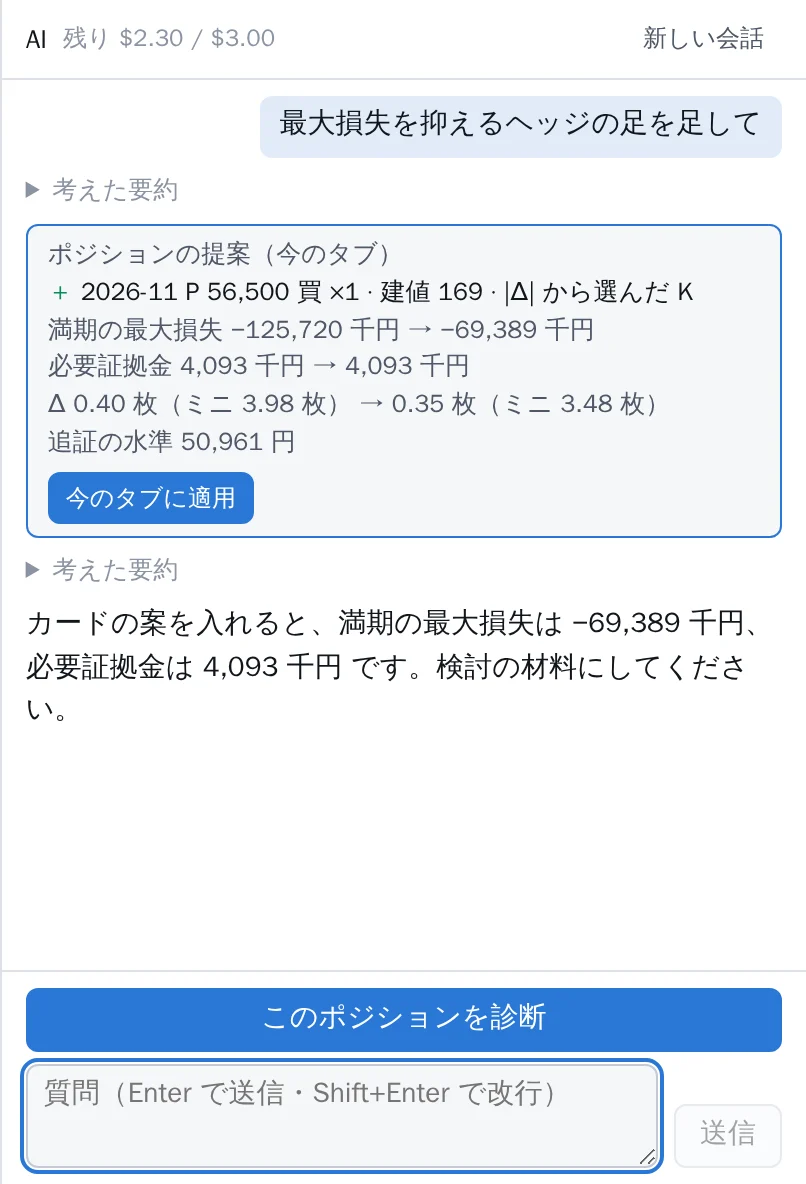
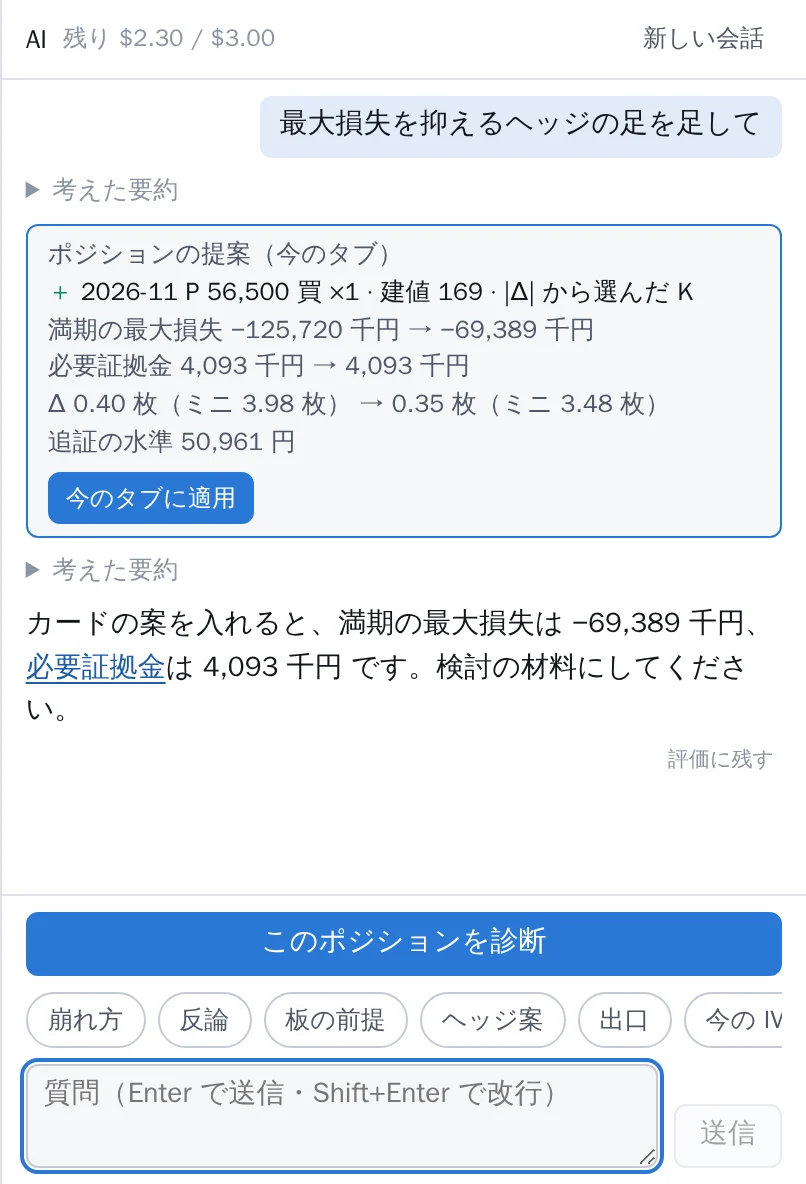
docs: 利用者向けの文書と AI の画像を今の実装に合わせる（文書の点検 2026-10-22）
- README: AI の箇条とツアーに自分の前提・マニュアルを根拠に答える・表と用語のリンク・[評価に残す]、送り口は資格情報によらず Agent SDK とスキル・read_doc、/api/ai/status
- README の画像: ai・ai-propose・ai-tech を撮り直し（定型のチップ・[評価に残す]・用語のリンク）、表と用語のリンクの ai-table を足した
- マニュアル: 画面の構成（タイル 8 枚・AI の行・PC の市場の列）、通信の範囲、HV・統計は AI で返すこと、パレットの AI の行、操作一覧の対象と「消す」、目次の 20 章
- 用語集の HV: 画面には出ないが AI が計算して返す
- api/README のスキル（presets）とツール 11 本、infra/README の AI_CREDENTIAL の wif と SDK の記述、ui-redesign §4.8 の下限 56px / 24px

Changed region(s): [[0.031, 0.75, 0.9926, 0.9062], [0.031, 0.5312, 0.2171, 0.5938], [0.8375, 0.625, 0.9615, 0.6562]]

diff --git a/ui/view/glossary.ts b/ui/view/glossary.ts
@@ -181,11 +181,11 @@ export const GLOSSARY: readonly GlossaryTerm[] = [
     body: [
       'HV は原資産の実際の値動きから計算した変動率で、日々の騰落率の標準偏差を年率にしたもの。過去に実際にどれだけ動いたかを表す。',
       'IV（オプションの価格から逆算した、市場が織り込む変動率）と対になる。IV − HV はボラティリティ・プレミアムと呼ばれ、IV が HV より高いほど、オプションは実際の値動きに比べて高く値付けされている。',
-      'simulator は HV を計算・表示しない。IV の水準は IV 推移（iv30）で見る。',
+      'simulator の画面には HV を出さない。IV の水準は IV 推移（iv30）で見る。AI に「IV は HV に比べて高い？」のように聞くと、IV の過去の統計として HV（5・20・60 取引日）と IV − HV を計算して返す。',
     ],
     formula: 'HV ≒ 日々の騰落率の標準偏差 × √（1 年の営業日の数）',
     example: '例（架空の値）: 日々の騰落率の標準偏差が 1.2% なら HV ≒ 1.2% × √245 ≒ 18.8%',
-    where: ['simulator には出ない（IV と比べるための用語）'],
+    where: ['画面には出ない（AI に聞くと IV の過去の統計として返す）'],
     guide: G_IV_HISTORY,
     related: ['iv', 'iv30'],
   },

diff --git a/README.md b/README.md
@@ -33,7 +33,7 @@
 - **証拠金の概算** — 必要証拠金・余力、損益グラフに **追証の線**、過去の 2 営業日の動きと重ねる **追証マップ**
 - **板とスマイル** — 板の bid で売り・ask で買いの足が入る。スマイル（bid / ask / mid の IV と補間・外挿）の点からも
 - **IV 推移と先物推移** — ATM IV と日経225 先物のローソク足（1 分〜日足）。先物には EMA の 3 本と RSI・MACD・ストキャスティクスの段
-- **AI に相談** — [このポジションを診断]、**定型の質問**（崩れ方・反論・板の前提・ヘッジ案・出口・今の IV は売り時？）、続けての質問、画面の数字からの **[AI に聞く]**、ヘッジや組み方の **提案のカード**、先物の **テクニカルの読み**、**IV の過去の統計**（分位・スパイクの戻り方・β の実測・HV）。数字はこのシミュレーター自身の計算から取る
+- **AI に相談** — [このポジションを診断]、**定型の質問**（崩れ方・反論・板の前提・ヘッジ案・出口・今の IV は売り時？）、続けての質問、画面の数字からの **[AI に聞く]**、ヘッジや組み方の **提案のカード**、先物の **テクニカルの読み**、**IV の過去の統計**（分位・スパイクの戻り方・β の実測・HV）、使い方・計算の前提の質問にはマニュアルの節を示して答える。返答の比較は表で、用語は説明カードへのリンクに。設定に **自分の前提**（資金・許容損失・好む形など）を書くと毎回渡る。数字はこのシミュレーター自身の計算から取る
 - **コマンドパレット・用語集・設定** — `Ctrl + K` で何でも、`?` で用語の説明カード。テクニカル指標の期間と線の太さも設定で
 - **計算はすべてブラウザ** — サーバーは板などの JSON を返すのと、AI への中継だけ
 
@@ -122,7 +122,7 @@ IV 推移は ATM IV（30 日固定）、先物推移は日経225 先物（ラー
 
 [このポジションを診断] で、今のポジションの弱点（どこで損が膨らむか・何に弱いか）を AI（Anthropic の Claude）が数字つきで説明します。数字はこのシミュレーターの計算（指標・テール表・証拠金・シナリオの評価と同じ計算）から取り、AI には計算させません。続けて「−6% で 3 日後、IV +5pt なら？」のように質問もできます。指標のタイル・読み取り・テール表・IV 推移の **[AI に聞く]** を押すと、その値が何を表すか・なぜこの値か・今のポジションにとってどうかを、マニュアルの該当の節を示して答えます。
 
-<p align="center"><img src="docs/images/ai.webp" alt="ダーク。PC の右の列に AI のパネル。診断の返答（弱点 3 つと確かめるとよいこと）、続けた質問へのシナリオの評価のカードと [シナリオに適用]" width="100%"></p>
+<p align="center"><img src="docs/images/ai.webp" alt="ダーク。PC の右の列に AI のパネル。診断の返答（弱点 3 つと確かめるとよいこと。用語に下線のリンク、末尾に [評価に残す]）、続けた質問へのシナリオの評価のカードと [シナリオに適用]、下に [このポジションを診断] と定型の質問のチップ" width="100%"></p>
 
 <table>
   <tr>
@@ -135,12 +135,22 @@ IV 推移は ATM IV（30 日固定）、先物推移は日経225 先物（ラー
   </tr>
 </table>
 
+<table>
+  <tr>
+    <td width="50%"><img src="docs/images/ai-table.webp" alt="ライト。AI の返答の表 2 つ（足ごとの建値、下げの幅ごとの損益）。文の中の IV・Δσ・β・必要証拠金・追証の線に下線のリンク、照合できない数字に点線"></td>
+    <td width="50%"><b>表と用語のリンク</b> — AI が表で書いた比較は表で出る（列が多ければ表の中だけを横に動かす）。返答の中の用語（IV・Δσ・β・追証の線 など）は押すと用語の説明カードが開く。計算の値と照合できない数字には点線</td>
+  </tr>
+</table>
+
 <p align="center"><sub>AI の返答の画像は、手元の開発サーバーの架空の応答で撮った例です（実際の AI は呼んでいません。数字は合成の板からの計算の値）。</sub></p>
 
 - **開き方** — スマホ・タブレットはドックの [AI]、PC はトップバーの [AI] かキー `6`（右の列のポジション・指標と入れ替わる）。コマンドパレットの「AI に相談」「このポジションを診断」からも
 - **定型の質問** — [このポジションを診断] の下のチップ（[崩れ方]・[反論]・[板の前提]・[ヘッジ案]・[出口]・[今の IV は売り時？]）で、決まった質問を 1 押しで送る。[今の IV は売り時？] は材料を並べるだけで、売り時かどうかは言わない
 - **IV の過去の統計** — 「今の IV は過去のどの辺？」「跳ねた後どれくらいで萎んだ？」「下げ 2 日で IV はどれだけ跳ねた？」「β の実測は？」「IV は実際の値動き（HV）に比べて高い？」のように聞くと、IV 推移と同じ IV の日々の終値と先物相当の値からシミュレーターが計算した分位・スパイクの戻り方・値動きの大きさ別の IV の変化・β の実測・HV を、件数つきの材料として返す（予想ではない）
+- **使い方と計算の前提** — 「追証マップの点は何？」「β と Δσ はどう効くの？」のように聞くと、マニュアルと設計書の該当する節を読んで、節を示して答える（書かれていないことは「書かれていない」と答える）
+- **自分の前提** — 設定の「AI に渡す自分の前提」（1,000 字まで）に資金の規模・許せる損失・好む形・避ける形などを書くと、毎回の質問に一緒に渡り、答えの方針に使われる（計算には使わない。この端末にだけ保存）
 - **数字の照合** — 返答の中の数字が計算の値と照合できないときは点線の下線が付く（その数字は計算の値ではない）
+- **[評価に残す]** — 返答の末尾のボタンで、その返答までの会話をファイルにダウンロードできる（サーバーには送らない）。AI の設定を変えたときに同じ条件で解かせ直す材料にする（開発者向け。`api/README.md` の「AI の評価」）
 - **[シナリオに適用]** — AI が計算させたシナリオ（日数・ΔX・IV・スキュー）はカードで見せ、1 タップでシナリオに入る。トーストの [元に戻す] で戻せる
 - **1 日の上限** — 見出しに今日の残り（例 `残り $2.40 / $3.00`）。使い切ると翌日まで送れない
 - **会話は残さない** — このタブの間だけ（再読み込みでは残り、タブを閉じると消える）。保存一覧・URL・書き出しには入らない
@@ -174,7 +184,7 @@ IV 推移は ATM IV（30 日固定）、先物推移は日経225 先物（ラー
         │  読むだけ（書き込まない）
         ▼
 api/（Python 3.13・Flask）  /api/chain・/api/calendar・/api/atm_iv・/api/atm_daily・/api/future_bars
-        │  JSON              /api/ai/messages（SSE）──中継──▶ Anthropic Claude（AI を有効にしたときだけ）
+        │  JSON              /api/ai/status・/api/ai/messages（SSE）──中継──▶ Anthropic Claude（AI を有効にしたときだけ）
         ▼
 ブラウザ（TypeScript + Preact）  model/ の純関数で Black-76・IV・F・スマイル・満期損益・シナリオ・グリーク・証拠金
                                  AI が求めた計算（シナリオの評価・テール表など）もここで
@@ -185,7 +195,7 @@ api/（Python 3.13・Flask）  /api/chain・/api/calendar・/api/atm_iv・/api/a
 - **データ元**: 毎分取り込んだ板を蓄積した BigQuery の最新スナップショット（形と契約は [`docs/design.md`](docs/design.md) 4.1・7 章）、または JSON ファイル（`DATA_SOURCE=file`・画面のファイル選択）。手元では合成の板（`fixtures/synthetic/`）だけで GCP なしに動きます
 - **ほかの供給元**: 自分で契約した API から書き出した気配の一覧を読む口（`DATA_SOURCE=quotes`）。形・足し方・候補の比較は [`docs/data-sources.md`](docs/data-sources.md)
 - **汎用の作り**: 誰でも clone して自分の環境（自分の GCP プロジェクト・自分の板の BigQuery）で使える作りです。プロジェクト ID・URL・アカウントなどの個人の値はコードに書かず、変数で受け取ります（[`CLAUDE.md`](CLAUDE.md) の「リポジトリに置くもの / 置かないもの」）
-- **AI の中継**: ブラウザの会話を `api/` の `/api/ai/messages`（SSE）が許可リストで検査して Claude へ渡します。AI が求めた計算（シナリオの評価など）はブラウザで行い、中継は計算しません。1 日の費用の上限は Firestore で数えます（API キー・WIF のとき）。資格情報は `AI_CREDENTIAL` で 1 つ選びます（Claude のサブスクリプションの OAuth トークンか API キー（どちらも Secret Manager に入れる）、または Anthropic の WIF（鍵なし））。OAuth トークンのときは、中継が Claude Agent SDK（Claude Code の CLI を中で動かす）を通して送り、費用は数えません。未設定なら AI は無効で、ほかの機能はそのまま使えます。
+- **AI の中継**: ブラウザの会話を `api/` の `/api/ai/messages`（SSE）が許可リストで検査して Claude へ渡します。AI が求めた計算（シナリオの評価など）はブラウザで行い、中継は計算しません。1 日の費用の上限は Firestore で数えます（API キー・WIF のとき）。資格情報は `AI_CREDENTIAL` で 1 つ選びます（Claude のサブスクリプションの OAuth トークンか API キー（どちらも Secret Manager に入れる）、または Anthropic の WIF（鍵なし））。どの資格情報でも、中継は Claude Agent SDK（Claude Code の CLI を中で動かす）を通して送ります（OAuth トークンのときは費用を数えません）。毎回は要らない手順（テクニカル・提案・IV の統計・定型の質問の読み方）はスキルにして AI が要るときだけ読み、マニュアル・設計書の本文は中継が節ごとに返します。未設定なら AI は無効で、ほかの機能はそのまま使えます。
   - **サブスクリプションの OAuth トークンを使う場合は、自分で規約を確かめてください**。Anthropic の文書は、Agent SDK を使って製品・サービスを作る開発者には API キーでの認証を求め、Free / Pro / Max プランの資格情報で利用者の代わりに要求を送ることを認めていません（原文と出典は [`docs/adr-0005-ai-oauth-via-agent-sdk.md`](docs/adr-0005-ai-oauth-via-agent-sdk.md) の「規約」）。使うかどうかはデプロイする人の自己責任です。迷うなら API キーか WIF を使ってください
   - 手順は [`infra/README.md`](infra/README.md) の「AI の資格情報」「AI の費用の計上」と [`api/README.md`](api/README.md)
 - **本番の構成**: Cloud Run（IAP の後ろ）+ Terraform（[`infra/README.md`](infra/README.md)）。API は [`api/README.md`](api/README.md)
@@ -292,7 +302,7 @@ GCP_PROJECT_ID=$P GCP_PROJECT_NUMBER=$(gcloud projects describe "$P" --format='v
 
 ## スクリーンショットの撮り直し
 
-この README の画像（`docs/images/*.webp`）は `scripts/readmeShots.mjs` で撮っています。Vite の dev サーバーを中で起こし、**合成の板**（`fixtures/synthetic/latest.json`）と dev サーバーの合成の応答（IV 推移・先物推移・日次の値・AI の架空の返答（診断・シナリオの評価・提案・テクニカル）。`scripts/devFixtures.mjs`）だけを使います。本番・API・BigQuery・Anthropic には触れません。足・シナリオ・資金（架空の値）は localStorage に入れて開きます。
+この README の画像（`docs/images/*.webp`）は `scripts/readmeShots.mjs` で撮っています。Vite の dev サーバーを中で起こし、**合成の板**（`fixtures/synthetic/latest.json`）と dev サーバーの合成の応答（IV 推移・先物推移・日次の値・AI の架空の返答（診断・シナリオの評価・提案・テクニカル・表）。`scripts/devFixtures.mjs`）だけを使います。本番・API・BigQuery・Anthropic には触れません。足・シナリオ・資金（架空の値）は localStorage に入れて開きます。
 
 ```sh
 npx playwright install chromium        # 初回だけ

diff --git a/api/README.md b/api/README.md
@@ -169,12 +169,12 @@ gcloud logging read 'resource.type="cloud_run_revision" AND resource.labels.serv
 - **送信路の決まり**（ADR-0005・ADR-0006）: ツールは SDK MCP のツール（CLI では `mcp__sim__<名>`）として見せ、`PreToolUse` フックで実行せずに turn を終える（ブラウザが計算する）。組み込みのツールは `Skill` だけ（`tools=["Skill"]`）、設定・CLAUDE.md を読まない（`setting_sources=[]`）、`@<パス>` をファイルとして読ませない（`verbatim_prompts=True`）、再試行しない（`CLAUDE_CODE_MAX_RETRIES=0`）、出力の上限は `CLAUDE_CODE_MAX_OUTPUT_TOKENS=8000`、1 要求で上流を呼ぶのは最大 `AI_MAX_TURNS`（3）回、設定ディレクトリと cwd は要求ごとの一時ディレクトリ（`/tmp`。終わったら消す）、CLI の標準エラーは捨てる。会話の履歴は要求ごとにメモリ上の transcript にして渡す（最後の発言がツールの結果のときは、CLI がその末尾に固定の短い文を 1 つ足す）。中止・締め切り・切断で子を止める。イメージは `CLAUDE_AGENT_SDK_SKIP_VERSION_CHECK=1`（版は `uv.lock` で固定）。SDK の版を上げるときは `tests/test_ai_agent_sdk_cli.py` を必ず通し、ADR-0005・ADR-0006 の版を直す
 - **子の資格情報**: CLI が資格情報・送信先の選択として読む変数（`agent_sdk.CREDENTIAL_ENV`）を全部空で上書きし、選んだ種類のものだけを入れる（`oauth_token` → `CLAUDE_CODE_OAUTH_TOKEN`、`api_key` → `ANTHROPIC_API_KEY`、`wif` → WIF の ID と `ANTHROPIC_IDENTITY_TOKEN`）。CLI は WIF の設定を他より優先するので、親の環境の値が子に見えないことが要る
 - **文書**（`ai/docs.py`。#137・`docs/adr-0007-ai-docs-read-tool.md`）: マニュアル（`docs/user-guide.md` の全章）と設計書（`docs/design.md` の 3 章・5 章）を見出しで節に分け、目次（番号と見出し）を system の末尾に載せる。本文は **中継の中で実行するツール** `read_doc(file, section, part?)`（`mcp__docs__read_doc`。フックが allow）が要る節だけを返す（1 回 8 KiB・1 要求 16 KiB・6 回まで。7 回目はフックが deny + 要求を終える）。往復は SSE・`done` に出ない。文書の置き場所は `AI_DOCS_DIR`（イメージは `/app/docs`。未設定ならリポジトリの `docs/`）。読めなければ目次も `read_doc` も出さない（WARNING `ai_docs_unavailable`）
-- **スキル**（`ai/skills.py`・`ai/plugin/`。#221）: 毎回は要らない手順を `ai/plugin/skills/<名前>/SKILL.md` に置き、モデルが要るときだけ CLI の `Skill` ツールで読む（今は `simulator:technicals`・`simulator:proposals`・`simulator:volatility`）。フックは一覧の名前の `Skill` だけ通す。`Skill` の tool_use は SSE・`done` に出ない（`done` の content は最後の message）。読んだ内容は次の要求に残らない（要れば読み直す）。**足し方**: `ai/plugin/skills/<名前>/SKILL.md` を作り（frontmatter は `name`（ディレクトリと同じ）・`description`（いつ読むか）だけ。本文は手順の文だけ。`allowed-tools`・`context`・`!` のコマンドの埋め込み・他のファイル・秘密を置かない。合計 16 KiB 以下）、`skills.NAMES` に名前を足し、`relay.SYSTEM_PROMPT` の「スキル」の節にいつ読むかを 1 行足す。約束は `tests/test_ai_skills.py` が検査し、wheel（= イメージ）に入ることも確かめる
+- **スキル**（`ai/skills.py`・`ai/plugin/`。#221）: 毎回は要らない手順を `ai/plugin/skills/<名前>/SKILL.md` に置き、モデルが要るときだけ CLI の `Skill` ツールで読む（今は `simulator:technicals`・`simulator:proposals`・`simulator:volatility`・`simulator:presets`（定型の質問。#140））。フックは一覧の名前の `Skill` だけ通す。`Skill` の tool_use は SSE・`done` に出ない（`done` の content は最後の message）。読んだ内容は次の要求に残らない（要れば読み直す）。**足し方**: `ai/plugin/skills/<名前>/SKILL.md` を作り（frontmatter は `name`（ディレクトリと同じ）・`description`（いつ読むか）だけ。本文は手順の文だけ。`allowed-tools`・`context`・`!` のコマンドの埋め込み・他のファイル・秘密を置かない。合計 16 KiB 以下）、`skills.NAMES` に名前を足し、`relay.SYSTEM_PROMPT` の「スキル」の節にいつ読むかを 1 行足す。約束は `tests/test_ai_skills.py` が検査し、wheel（= イメージ）に入ることも確かめる
 
 - **許可リスト**（`ai/allowlist.py`）: ブラウザから受けるのは `schema_version`・`kind`・`context`・`messages` だけ（`model`・`system`・`tools`・`max_tokens` などは 400）。`context` のキー・型・範囲・個数を検査し（自由な文字列は無い。板の行は `k`・`type`・`bid`・`ask`・`iv` だけで、JPX のグリーク・`bid_iv` / `ask_iv`・数量・建玉は 400）、`messages` は role の交互・block の型（user は `text`・`tool_result`、assistant は `text`・`thinking`・`redacted_thinking`・`tool_use`）・ツールの名前と入出力の形（`ai/tools.py` の登録）を検査する。送る本文は検査済みの値から組み立て直す（`context` は最初の user の先頭の text block に `<context>…</context>` の決定的な JSON）
 - **1 日の上限**（`ai/budget.py`）: 予約（µUSD の整数）は turn ごとの上界の和: turn 0 は E × w + M × o、turn i（1 ≤ i < T）は (E + (i−1)·g) × r（前の turn の要求全体 = キャッシュの読み出し）+ g × w + M × o（g = M + K、w = 書き込みの単価（5 分と 1 時間の大きい方）、r = 読み出しの単価、o = 出力の単価）。E = 入力の見積もり = 送る本文の UTF-8 のバイト数 + 2,000（見えない分）+ 4,000（CLI が足す Skill の定義・環境の message。実測 約 2.9 KB）、M = `max_tokens`、K = SKILL.md の合計のバイト数 + 1,000、T = `AI_MAX_TURNS`。前提は「前の turn の要求がキャッシュから読まれる」（CLI が最後の message に cache_control を付け、次の turn は前の要求をそのまま前置きに持つ = `tests/test_ai_agent_sdk_cli.py`）で、読めなかったとき（追い出し）だけ精算で予約を越えうる。目安（#140 の時点。スキルと文書の目次が増えると上がる）: 本文 25k トークンで 約 $1.36、90k で 約 $1.90（日の上限 $3 で日の始めに拒否されるのは本文 約 220k トークンから）。`計上額 + 予約額 ≤ 上限` のときだけ送り、終わったら `usage`（全 turn の合計）× 料金表で精算、途中で切れたら予約額のまま。計上の場所が読めない・書けないときは 503 で送らない
 - **SSE**: `accepted`（検査と予約の直後、Anthropic を呼ぶ前）→ `progress`（`thinking` / `writing` / `tool`）・`thinking`・`text`・`tool_use` → `done`（`stop_reason`・assistant の `content`・`remaining_usd`）か `error`（`timeout`・`upstream_auth`・`upstream_rate_limited`・`upstream_overloaded`・`upstream_bad_request`・`upstream_unavailable`・`upstream_incomplete`・`bad_tool_input`）。締め切りは 50 秒
-- **ツール**（`ai/tools.py`。#135）: `position_summary`・`tail_table`・`margin_summary`・`scenario_grid`・`smile_position`（入力なし。[このポジションを診断] ではブラウザが事前計算して `context.precomputed`）と `evaluate_scenario`（`dx_pct` か `x`・`days`・`iv_shift_pt`・任意の `skew_pt`。範囲は画面のシナリオの欄と同じ）。中継はツールを実行せず、入力（`tool_use`）・結果（`tool_result`・`precomputed`）を形で検査する。計算はブラウザの `ui/view/aiTools.ts` で、生成した見本 `fixtures/synthetic/ai_tools.json` を `tests/test_ai_tools.py` が結果の形に通す（言語をまたぐ契約）
+- **ツール**（`ai/tools.py`。#135）: `position_summary`・`tail_table`・`margin_summary`・`scenario_grid`・`smile_position`（入力なし。[このポジションを診断] ではブラウザが事前計算して `context.precomputed`）と `evaluate_scenario`（`dx_pct` か `x`・`days`・`iv_shift_pt`・任意の `skew_pt`。範囲は画面のシナリオの欄と同じ）、`technicals`（先物のテクニカル。#200・#206）、`iv_stats`（IV の過去の統計。#138・#158）、`strike_scan`・`structure_candidates`・`propose_position`（ポジションの提案。#139）の 11 本。中継はツールを実行せず、入力（`tool_use`）・結果（`tool_result`・`precomputed`）を形で検査する。計算はブラウザの `ui/view/aiTools.ts` で、生成した見本 `fixtures/synthetic/ai_tools.json` を `tests/test_ai_tools.py` が結果の形に通す（言語をまたぐ契約）
 - **会話の途中の文脈の更新**（#135）: 2 件目以降の user の発言に `{"type": "context_update", "context": {…}}` を 1 つ（`tool_result` の後ろ）。`context` と同じ形で検査し、`<context_update>…</context_update>` の text block にして同じ位置に置く。最初の `context` と前の messages は変えない（Opus 5.5 の preserved thinking・prompt caching の前置きを保つ）。`kind: "diagnose"` は [このポジションを診断]（system prompt は 1 つ。`relay.DIAGNOSE_TEXT` が最初の発言）。`kind: "preset"` は定型の質問のチップ（#140）で、`topic` は定型の ID（`allowlist.PRESET_TOPICS`: `crash`・`rebut`・`board`・`hedge`・`exit`・`iv`。必須。外れ・自由文・ほかの kind に付けたら 400）。発言は `relay.PRESET_PREFIX`（「［定型］」）で始まり、system prompt の案内でスキル `simulator:presets` を読む
 - テストは偽の送信先（`ai/gateway.py` の `FakeGateway`）、偽の Firestore の session、送信路の偽の `query`・偽の CLI（環境を記録する。`tests/test_ai_agent_sdk.py`）と、同梱の本物の CLI を pytest の中の 127.0.0.1 の偽の Messages API（`tests/fake_messages_api.py`。ダミーの資格情報。スキルの往復・`read_doc` の往復（#137）・turn の上限・turn ごとの usage・WIF の交換口 `POST /v1/oauth/token` の脚本がある）に向けた結合（`tests/test_ai_agent_sdk_cli.py`・`tests/test_ai_secrets.py`。同梱の CLI が無いプラットフォームでは skip）。Anthropic・GCP には触れない
 
